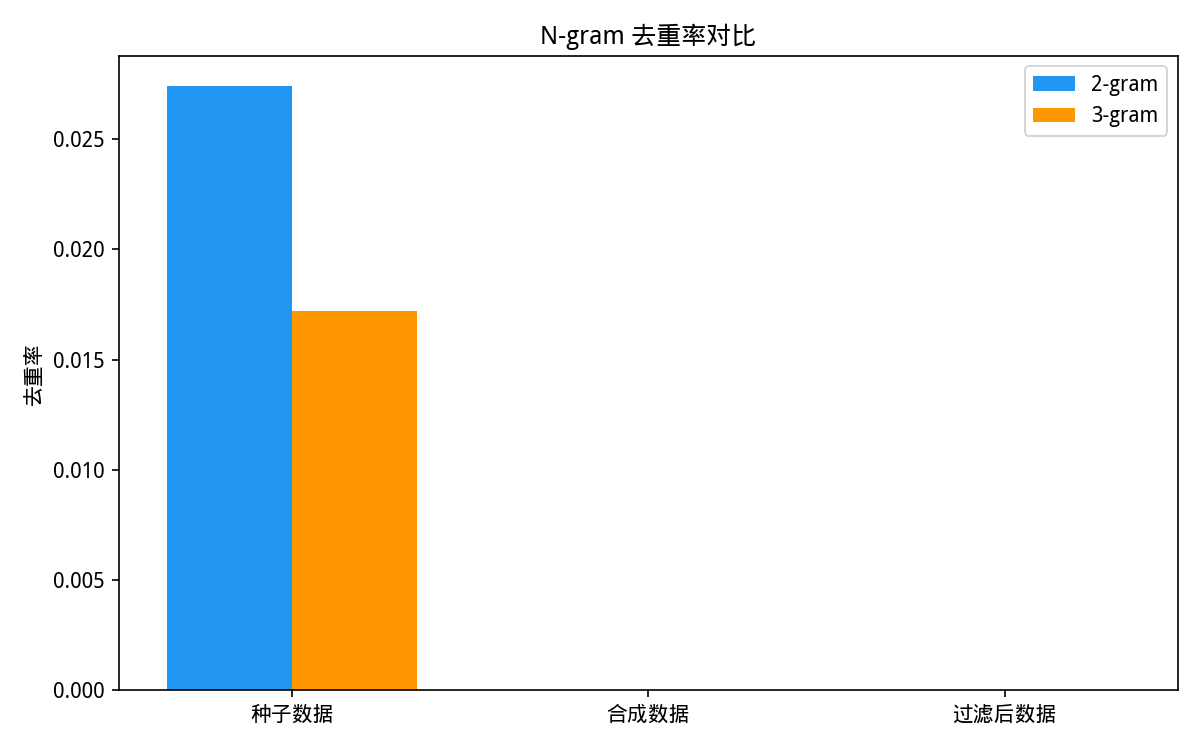
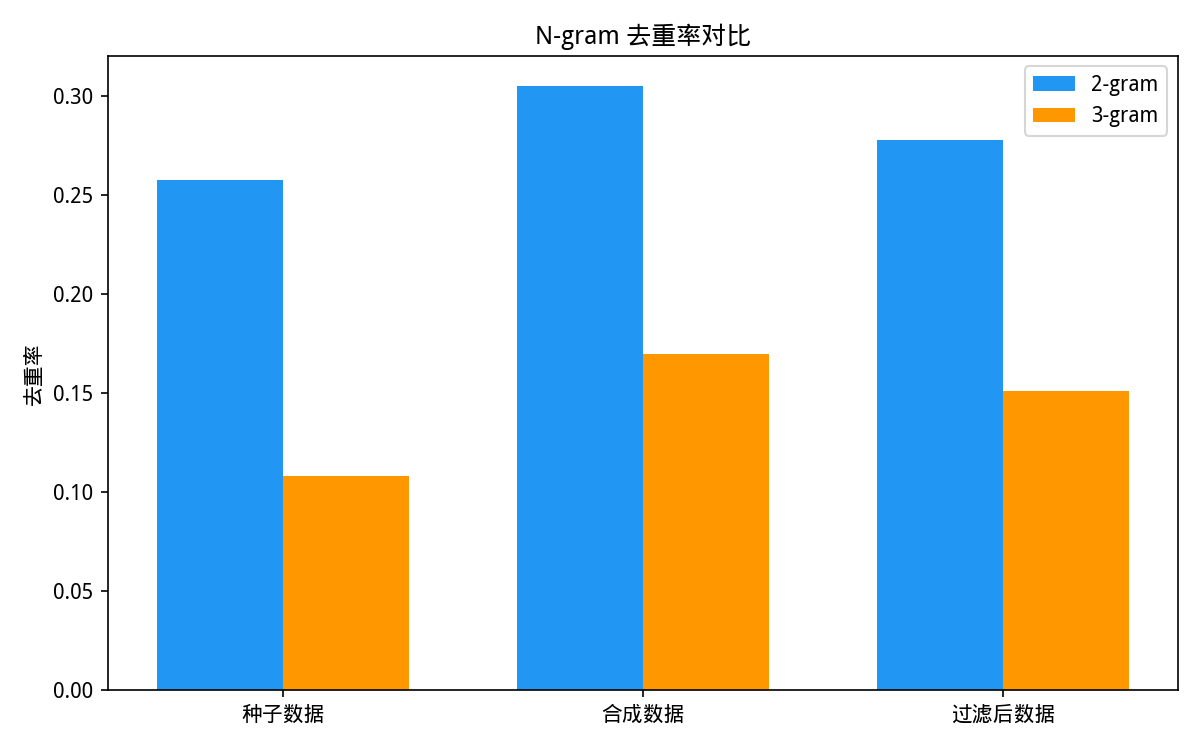
fix: use character-level n-gram and length stats for Chinese text

diff --git a/tests/test_diversity.py b/tests/test_diversity.py
@@ -3,17 +3,18 @@ from steps.diversity_metrics import ngram_dedup_rate, length_stats
 
 class TestNgramDedupRate:
     def test_no_duplicates(self):
-        texts = ["hello world", "foo bar baz", "unique text here"]
+        texts = ["你好世界", "今天天气真好", "学习编程很有趣"]
         rate = ngram_dedup_rate(texts, n=2)
         assert rate == 0.0
 
     def test_all_duplicates(self):
-        texts = ["hello world", "hello world"]
+        texts = ["你好世界", "你好世界"]
         rate = ngram_dedup_rate(texts, n=2)
         assert rate == 1.0
 
     def test_partial_duplicates(self):
-        texts = ["hello world foo", "hello world bar"]
+        # "你好" 2-gram appears in both texts
+        texts = ["你好世界", "你好朋友"]
         rate = ngram_dedup_rate(texts, n=2)
         assert 0.0 < rate < 1.0
 
@@ -21,15 +22,20 @@ class TestNgramDedupRate:
         rate = ngram_dedup_rate([], n=2)
         assert rate == 0.0
 
+    def test_short_text_skipped(self):
+        # Single-char text can't produce 2-grams
+        rate = ngram_dedup_rate(["好"], n=2)
+        assert rate == 0.0
+
 
 class TestLengthStats:
     def test_basic_stats(self):
-        texts = ["hello", "hello world", "hello world foo"]
+        texts = ["你好", "你好世界", "你好世界编程"]
         stats = length_stats(texts)
         assert stats["count"] == 3
-        assert stats["mean"] == 2.0  # word counts: 1, 2, 3
-        assert stats["min"] == 1
-        assert stats["max"] == 3
+        assert stats["mean"] == 4.0  # char counts: 2, 4, 6
+        assert stats["min"] == 2
+        assert stats["max"] == 6
 
     def test_empty_input(self):
         stats = length_stats([])

diff --git a/steps/diversity_metrics.py b/steps/diversity_metrics.py
@@ -5,11 +5,14 @@ from statistics import mean, median, stdev
 
 
 def _get_ngrams(text: str, n: int) -> list[str]:
-    """Extract n-grams from text (word-level)."""
-    words = text.split()
-    if len(words) < n:
+    """Extract character-level n-grams from text.
+
+    Uses characters instead of words because Chinese text has no word boundaries.
+    For mixed Chinese/English text, character-level n-grams work uniformly.
+    """
+    if len(text) < n:
         return []
-    return [" ".join(words[i : i + n]) for i in range(len(words) - n + 1)]
+    return [text[i : i + n] for i in range(len(text) - n + 1)]
 
 
 def ngram_dedup_rate(texts: list[str], n: int = 2) -> float:
@@ -32,10 +35,13 @@ def ngram_dedup_rate(texts: list[str], n: int = 2) -> float:
 
 
 def length_stats(texts: list[str]) -> dict:
-    """Compute word-count statistics for a list of texts."""
+    """Compute character-count statistics for a list of texts.
+
+    Uses character count instead of word count for Chinese text consistency.
+    """
     if not texts:
         return {"count": 0, "mean": 0, "median": 0, "min": 0, "max": 0, "std": 0}
-    lengths = [len(text.split()) for text in texts]
+    lengths = [len(text) for text in texts]
     return {
         "count": len(lengths),
         "mean": round(mean(lengths), 2),

diff --git a/steps/4_diversity.py b/steps/4_diversity.py
@@ -111,7 +111,7 @@ def plot_length_distribution(lengths_dict: dict, output_path: Path):
     for name, lengths in lengths_dict.items():
         ax.hist(lengths, bins=30, alpha=0.5, label=name, color=colors.get(name, "gray"), edgecolor="black")
 
-    ax.set_xlabel("指令长度（词数）")
+    ax.set_xlabel("指令长度（字符数）")
     ax.set_ylabel("频次")
     ax.set_title("指令长度分布对比")
     ax.legend()